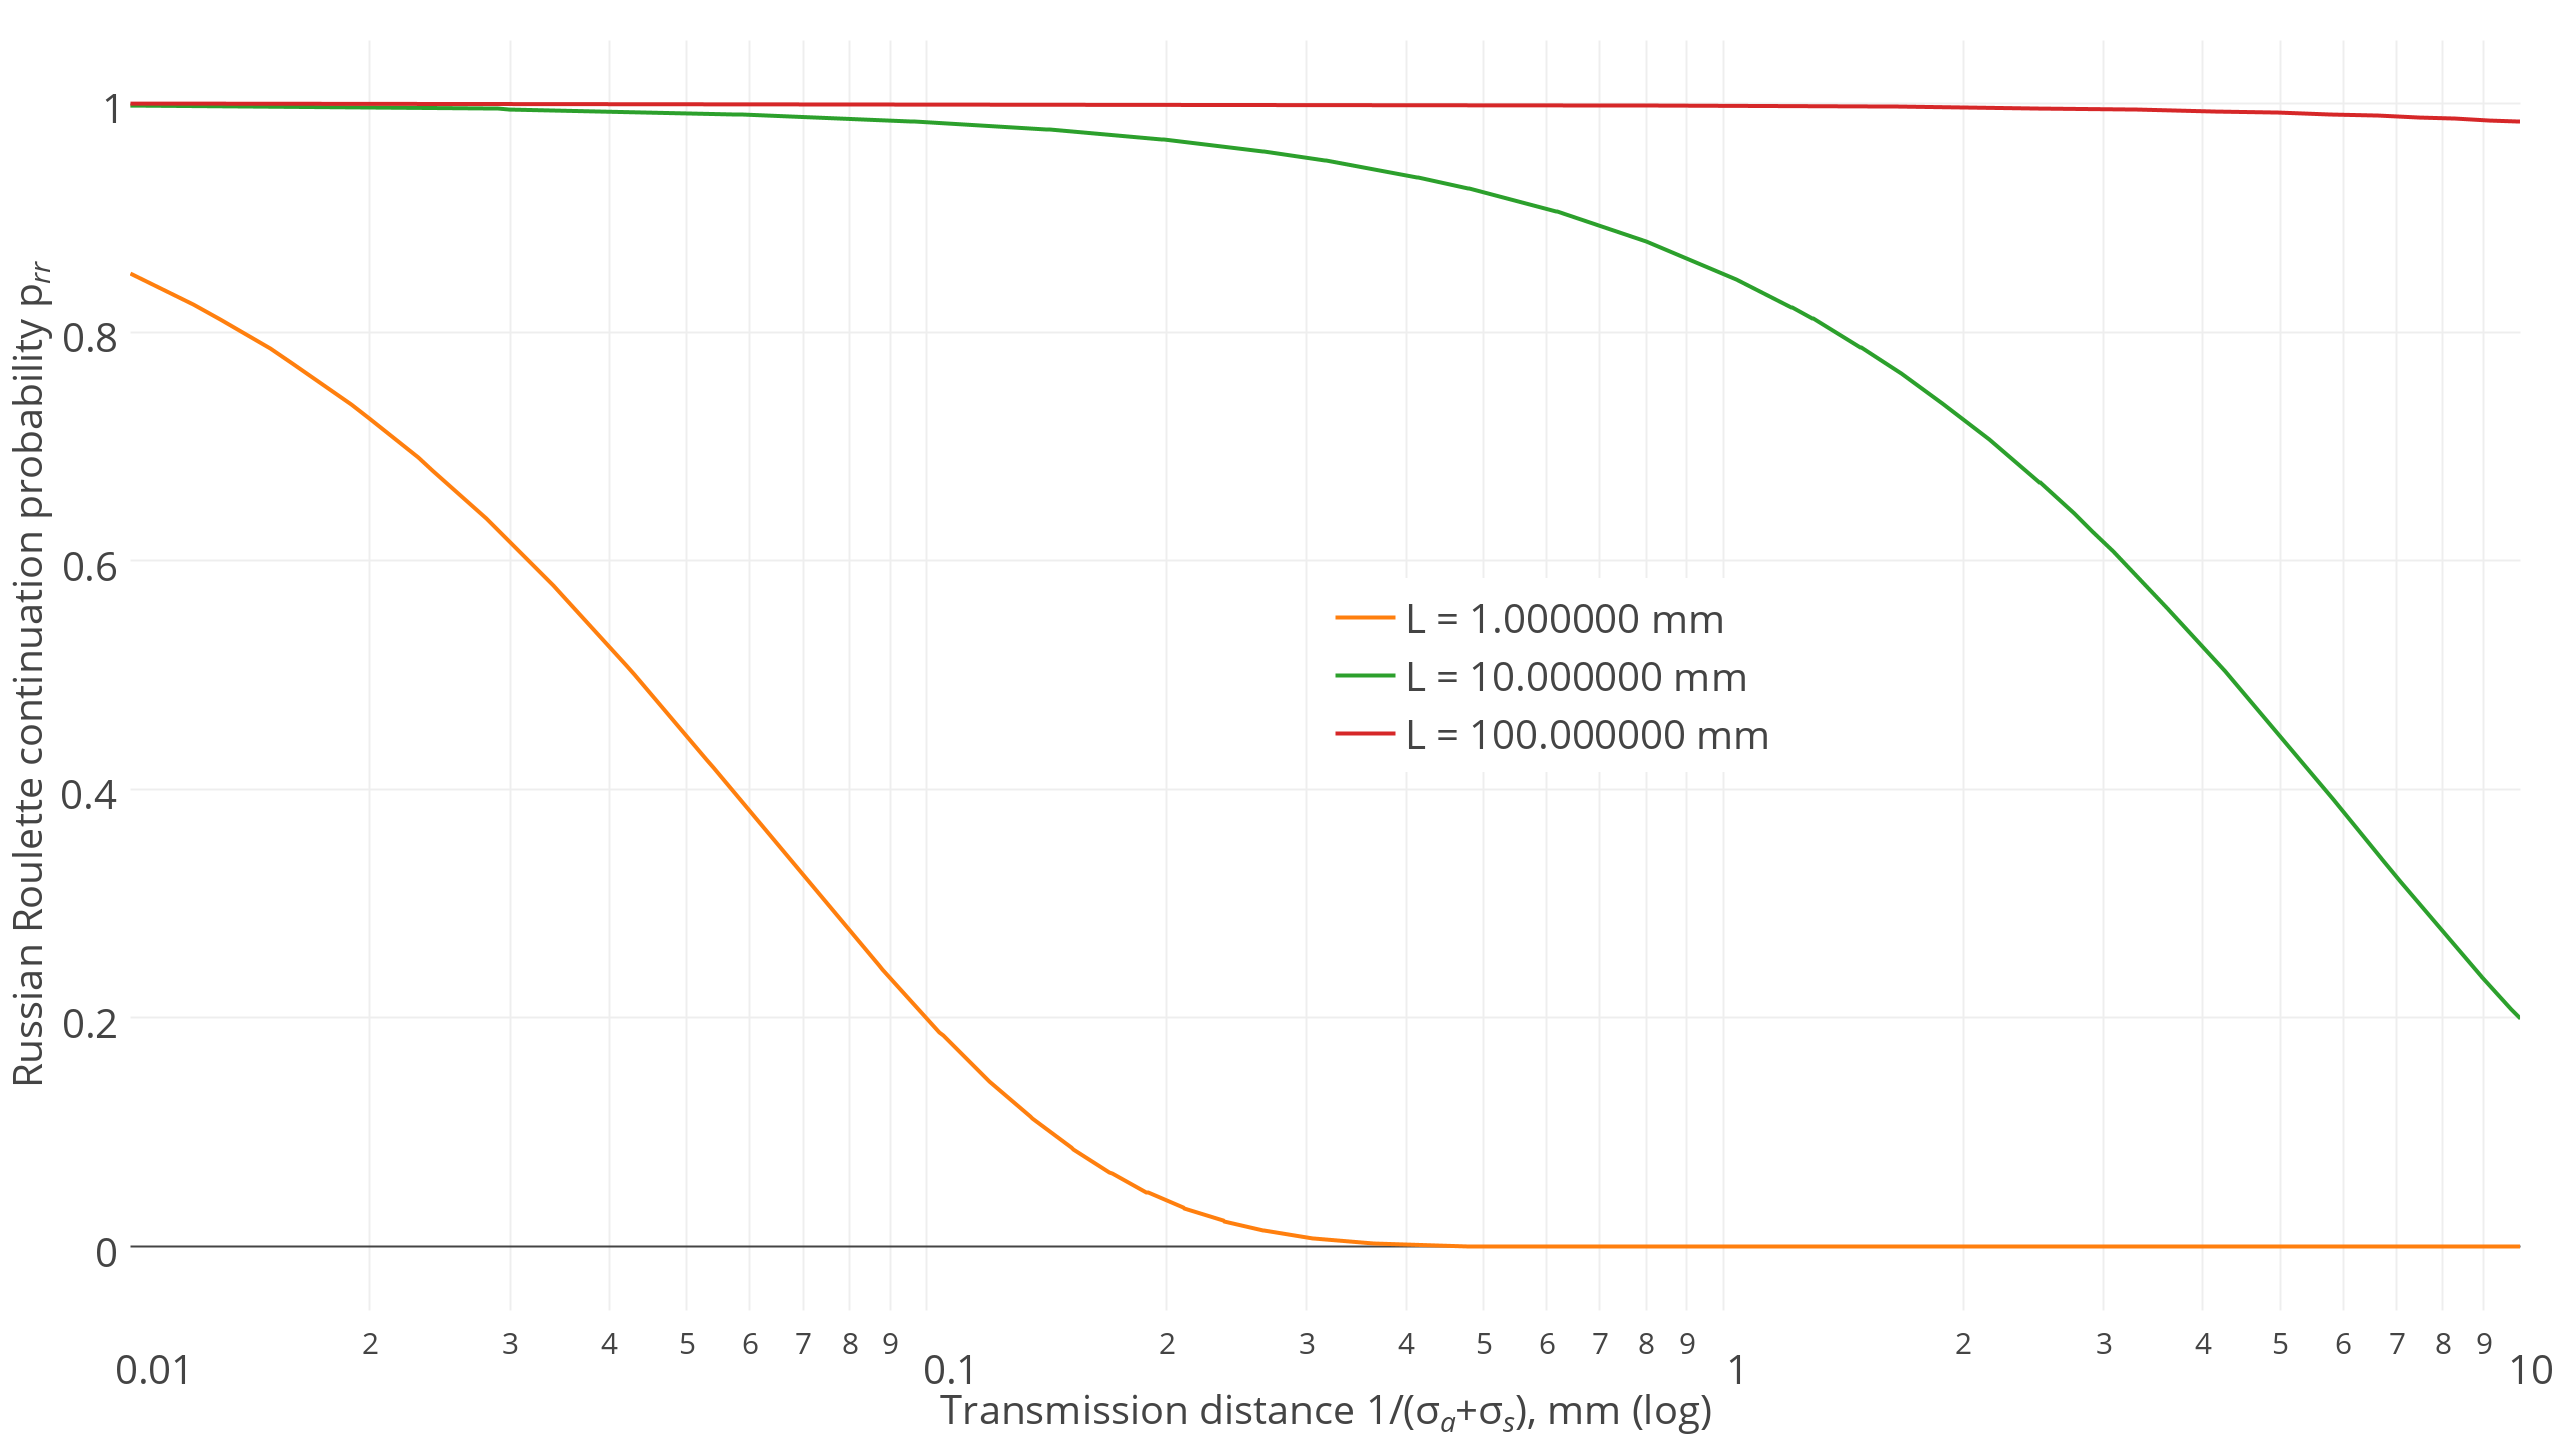
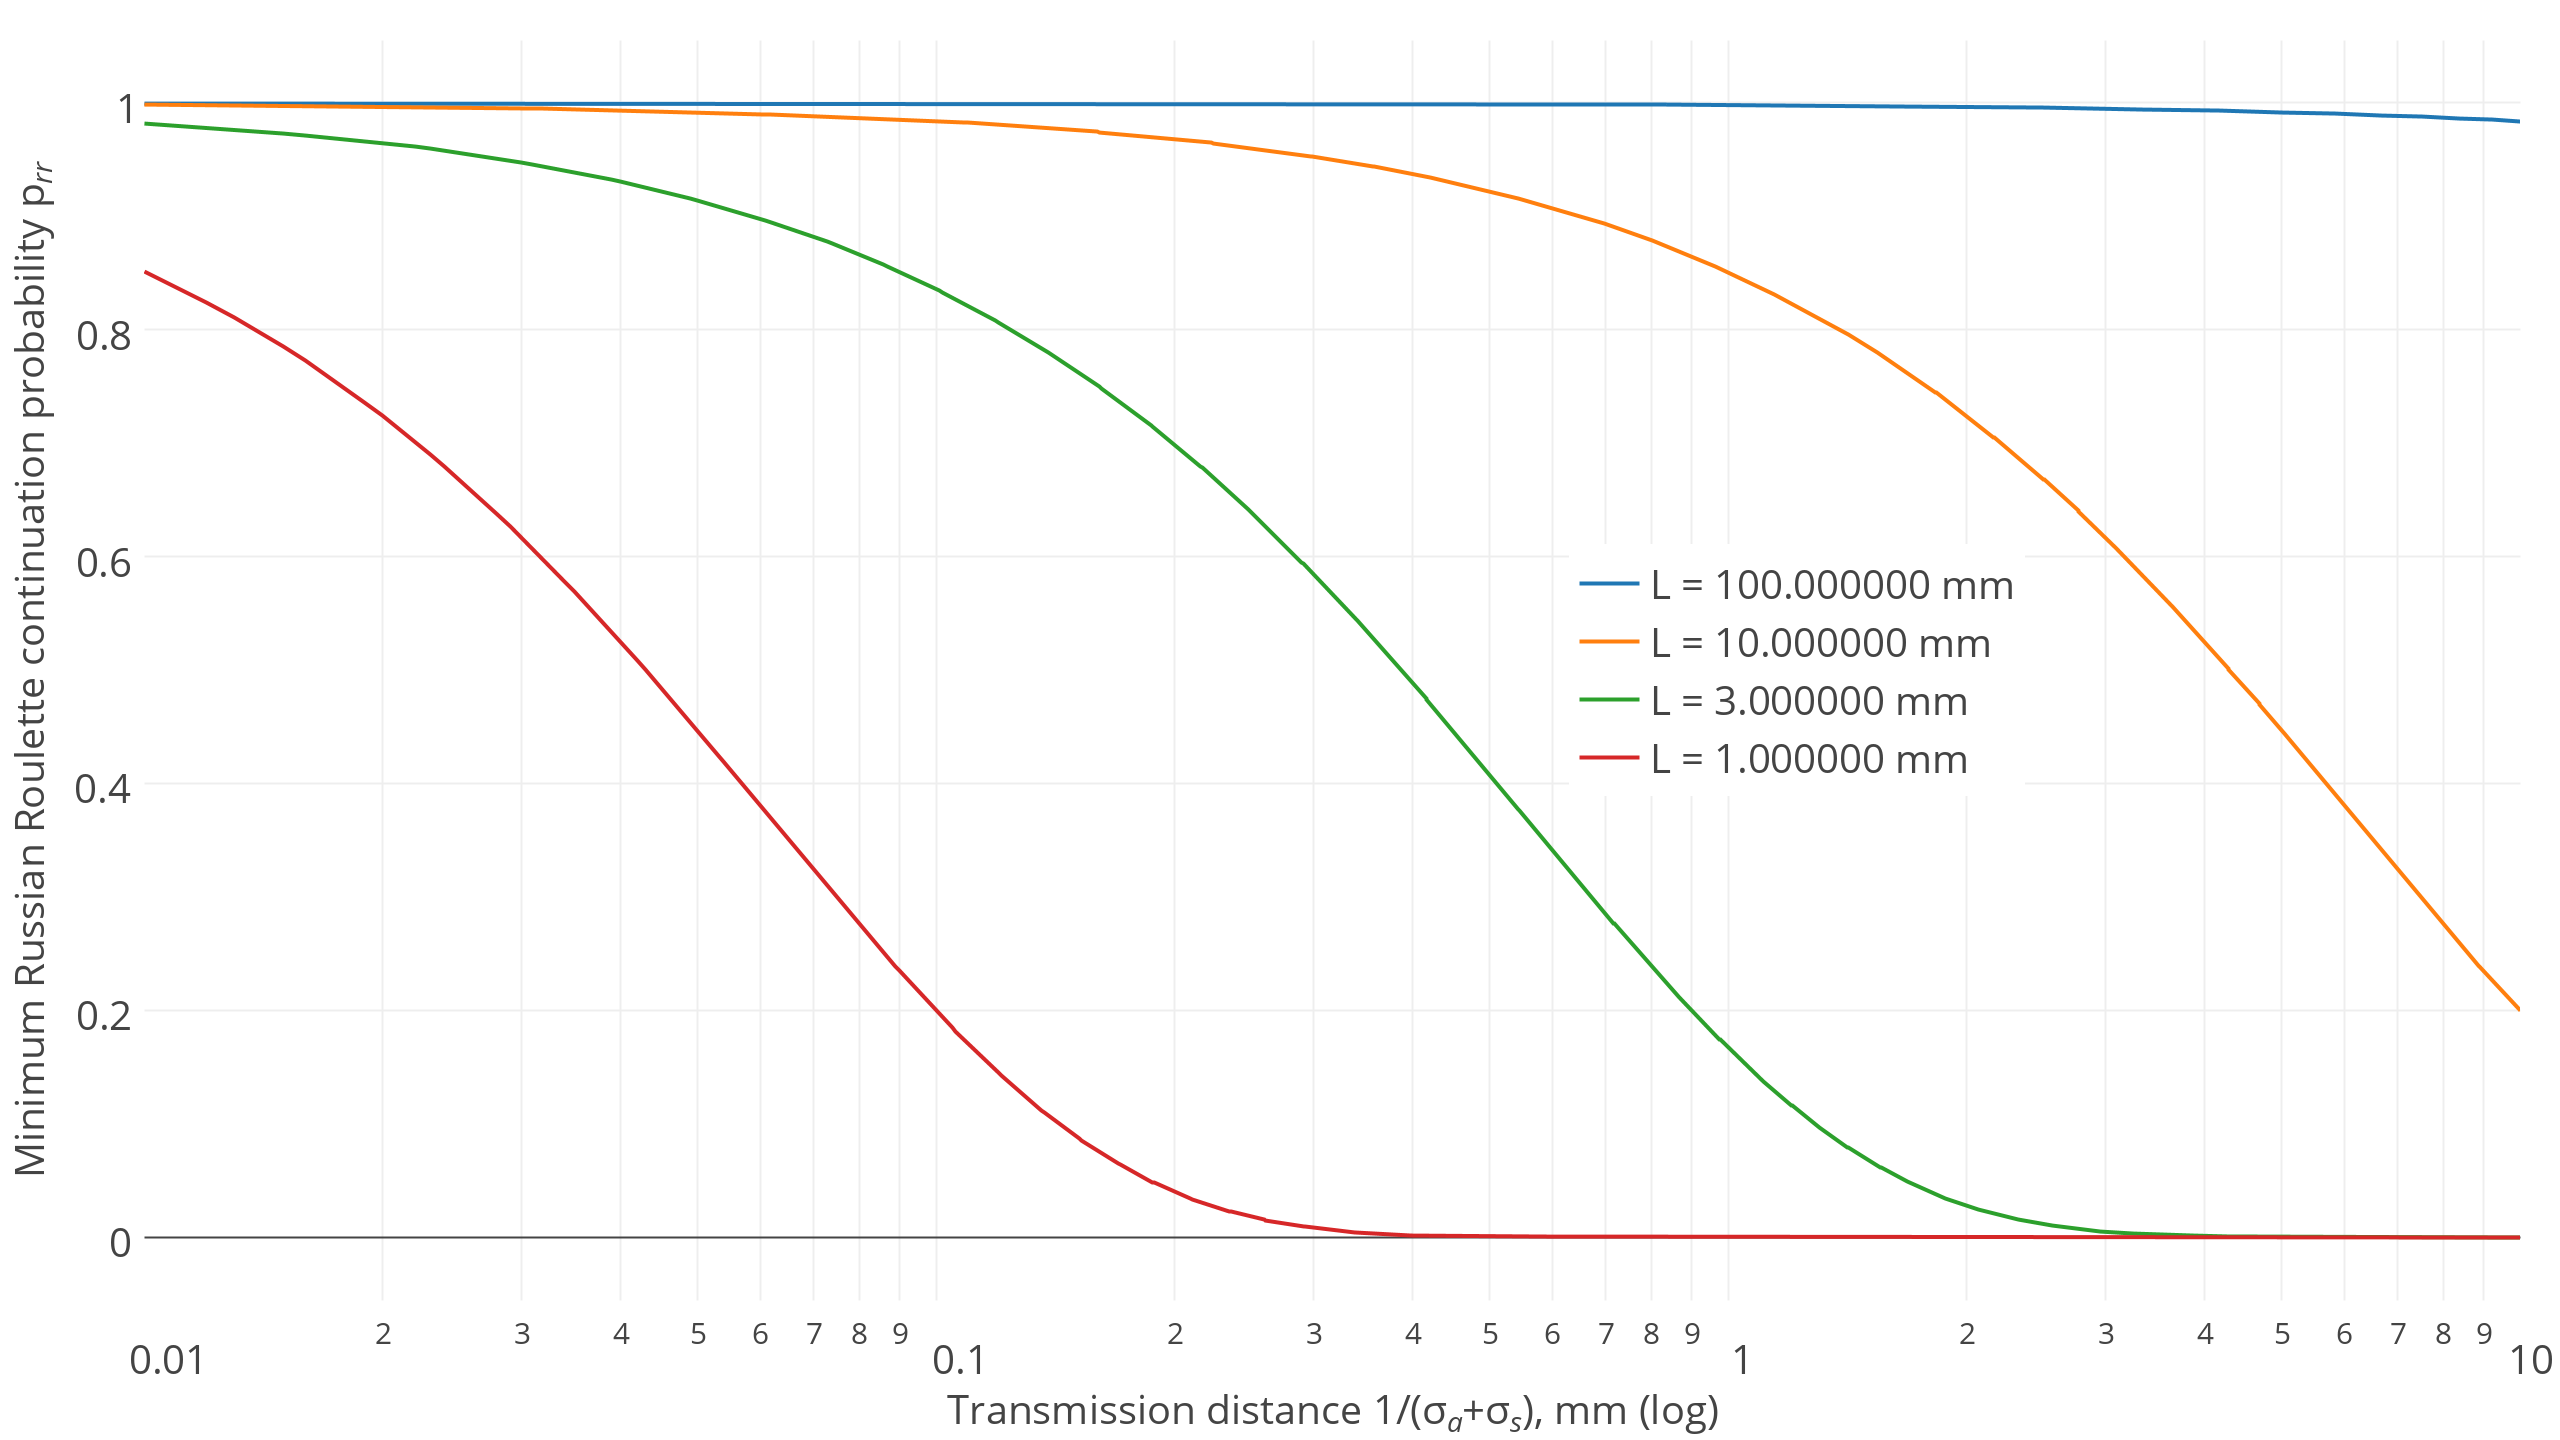
Heuristic validation

diff --git a/chapters/ptdl/numerical.tex b/chapters/ptdl/numerical.tex
@@ -1,6 +1,7 @@
 \section{Path tracing and numerical stability issues}
 \label{section:numerical}
 
+\subsection{Description of the problem an heuristic derivation}
 Unbiased nature of the brute force volumetric path tracing estimator and physically based
 parametrization makes it a perfect candidate for implementing the reference integrator.
 The inherent characteristic of the brute force volumetric path tracing estimator is a high variance,
@@ -9,9 +10,11 @@ techniques usually employed. For example Russian Roulette is one of them. The th
 description of the Russian Roulette technique can be found in the section \ref{subsection:rr}.
 
 There are different approaches to find the optimal strategy for choosing the Russian Roulette path
-termination probability $q_{rr}$ \cite{Veach:1998:RMC:927297}, \cite{And_findinggood}. But usually
-it is considered as a complicated task, highly dependent on the particular scene configuration  and
-lighting distribution. $q_rr$ is often exposed to the user as parameter of the integrator.
+termination probability $q_{rr}$ \cite{Veach:1998:RMC:927297}, \cite{And_findinggood}. It is usually
+considered as a complicated task, highly dependent on the scene configuration and lighting
+distribution. Often the particular value of $q_{rr}$ is based on the local reflectance properties,
+accumulated path weight $w_{rr}$ of the material or even exposed to the user as parameter of the
+integrator.
 
 The use of Russian Roulette in the context of volumetric path tracing may lead to unexpected loss of
 energy during simulations. It is observed as the objects are rendered darker than they should. The
@@ -23,8 +26,8 @@ such object requires a large number of random walk steps.
 
 If $q_{rr}$ is the probability of the path to terminate at each step of random walk, then the
 probability of the scattering to continue is defined by $p_{rr} = 1 - q_{rr}$. In case if the
-termination is not happening at the current step, the Russian Roulette weight $w_{rr}$ is
-multiplied by the $1/(p_rr)$. And after $n$ iterations the weight is equal to:
+termination is not happening at the current step, the path weight $w_{rr}$ is multiplied by the
+$1/(p_rr)$. And after $n$ iterations the weight is equal to:
 \begin{equation}
 w_{rr} = p_{rr}^{-n}
 \end{equation}
@@ -53,7 +56,7 @@ n\sim\sigma_tL^2
 \end{equation}
 
 As we want to make sure that $w_{rr}$ is not going down to less than the cancellation limit of
-$\epsilon\sim10^{-7}$ for the addition of the single precision floting point numbers with
+$\epsilon\sim10^{-7}$ for the addition of the single precision floating point numbers with
 characteristic values in the accumulation buffer $C_0\sim1$:
 \[
 w_{rr} = p_{rr}^{-n} \sim p_{rr}^{-\sigma_tL^2} > 10^{-7}
@@ -67,10 +70,40 @@ p_{rr} > 10^{\frac{-7}{\sigma_tL^2}}
 \begin{figure}[h]
     \centering
     \includegraphics[width=\textwidth]{imgs/plots/rr_heuristic}
-    \caption{Minimum allowed Russian Roulett threshold parameter according to heuristic \ref{eq:rr_heuristic}}
+    \caption{Minimum allowed Russian Roulette threshold parameter according to heuristic
+    \ref{eq:rr_heuristic} for several characteristic object scales}
     \label{fig:rr_heuristic}
 \end{figure}
 
 \subsection{Validation of the heuristic}
 Simple Furnace test helps us to validate such approximative approach to derive the heuristic
-\ldots
+\ref{eq:rr_heuristic}.
+
+In this test we render a cube with length of each side $L=10$mm in 1.0 white environment light scene.
+The volumetric albedo of the material is set to 1.0. So that transmission coefficient is defined
+only by scattering coefficient $\sigma_a=0.0, \sigma_t=\sigma_s$. This means that all the light
+entering the object volume have, in theory, after certain number of scattering events, leave it.
+Each pixel of the rendered surface of this cube have to be 1.0 white under such lighting conditions.
+
+We render this cube many times with different values of the scattering coefficient $\sigma_s$ and
+Russian Roulette probability $p_{rr}$. You can see the plot of the errors together with the
+predicted minimum value of $p_{rr}$ for this object on the figure \ref{fig:rr_heuristic_heatmap}.
+\begin{figure}[h]
+    \centering
+    \includegraphics[width=\textwidth]{imgs/plots/rr_heuristic_heatmap}
+    \caption{Color coded error of the furnace test with the minimum allowed Russian Roulette
+    threshold parameter for L=10mm}
+    \label{fig:rr_heuristic_heatmap}
+\end{figure}
+
+As seen from the graph, the heuristic gives a good prediction for the lower limit of the  Russian
+Roulette continuation probability. In most of the cases where the $p_{rr}$ was set lower than
+predicted limit the object was rendered with the loss of energy more than 1\%.
+
+Even taking into account that the heuristic \ref{eq:rr_heuristic} gives a good starting point for
+choosing the value $p_{rr}$, it is important to note that the special restrictions on the concrete
+application accuracy standards have to be considered. For example, in case of using path
+tracing integrator in this thesis as a reference implementation, the Russian Roulette variance
+reduction technique was disabled to eliminate any possible numerical issues.
+
+

diff --git a/components/outline.tex b/components/outline.tex
@@ -12,39 +12,34 @@
 \section*{Part I: Introduction and Theory}
 
 \textbf{ Chapter 1: Introduction}\\
-This chapter defines the the scope of the work. The high level
-overview of the Monte Carlo methods which are used during the study and
-implemented.
-The description of the light simulation in the participting media and possible
-variance reduction techniques takes place from the general point of view
-whithout mathematical formalism. An overview of the advantages and limitations
-of the each of the method for practical use is also given in this chapter.
+The first chapter defines the the scope of the work. The high level overview of the Monte Carlo
+methods which are used during the study and implemented.
+The description of the light simulation in the participating media and possible variance reduction
+techniques takes place from the general point of view without mathematical formalism. An overview of
+the advantages and limitations of the each of the method for practical use is also given in this
+chapter.
 
 \textbf{Chapter 2: Theory}\\
-Chapter 2 contains theorical summary of the Monte Carlo methods with attention
-on such concepts, which are important in the context of this work, such
-as light integration, importance sampling and multiple importance sampling.
-Theory of the in ligth transport in participating media with emission,
-attenuation and scattering laws.
-The theoretical intoduction into the diffusion theory and diffusion
-approximation approach of light integration in participating media.
+Chapter 2 contains theoretical summary of the Monte Carlo methods with attention on such concepts,
+which are important in the context of this work, such as light integration, importance sampling and
+multiple importance sampling.
+Theory of the light transport in participating media with emission, attenuation and scattering laws.
+The theoretical introduction into the diffusion theory and diffusion approximation approach of light
+integration in participating media.
 
 %--------------------------------------------------------------------
 \section*{Part II: Implementation and results}
 
-\textbf{ Chapter 3: Pathtracing integrator and Next Event Estimation}\\
-Here the pathtracing implementation details are discussed with additional Direct
-Light Sampling technique. Correctness of the method, and
-problems in practical usage. Comparison of the performance between two methods
-and the combination of them using MIS.
+\textbf{ Chapter 3: Path tracing integrator and Next Event Estimation}\\
+The path tracing implementation details are discussed here with additional Direct Light Sampling
+technique. Correctness of the method, and problems in practical usage such as numerical errors.
+Comparison of the performance between two methods and the combination of them using MIS.
 
 \textbf{ Chapter 4: Diffusion Approximation}\\
-The practical details of the implementation of the Diffusion Approximation
-light integrator. Sampling starategies and precomputed BSSRDFs. Special case of
-the Christenen Burley BSSRDF profile and fitting to Monte-Carlo references.
-Importance sampling of the precomputed profiles and and parametrization issues.
+The practical details of the implementation of the Diffusion Approximation light integrator.
+Sampling strategies and precomputed BSSRDFs. Special case of the Christenen-Burley BSSRDF profile
+and fitting to Monte-Carlo references. Importance sampling of the precomputed profiles and and
+parametrization issues.
 
-
-\textbf{ Chapter 5: Comparisons and measurements}\\
-Rendering of the measured materials. Comparisons between different
-implementations. Convergence graphs. \comment{$<$-Currently in TODO status}
+Special section of this chapter is dedicated to the study of the limitations of the Diffusion
+approximation from practical point of view.

diff --git a/chapters/framework.tex b/chapters/framework.tex
@@ -1,3 +1,4 @@
 \section{Development framework}
 \label{section:framework}
 The overview of the P2 framework where the implementation of the integrators was done
+\ldots
